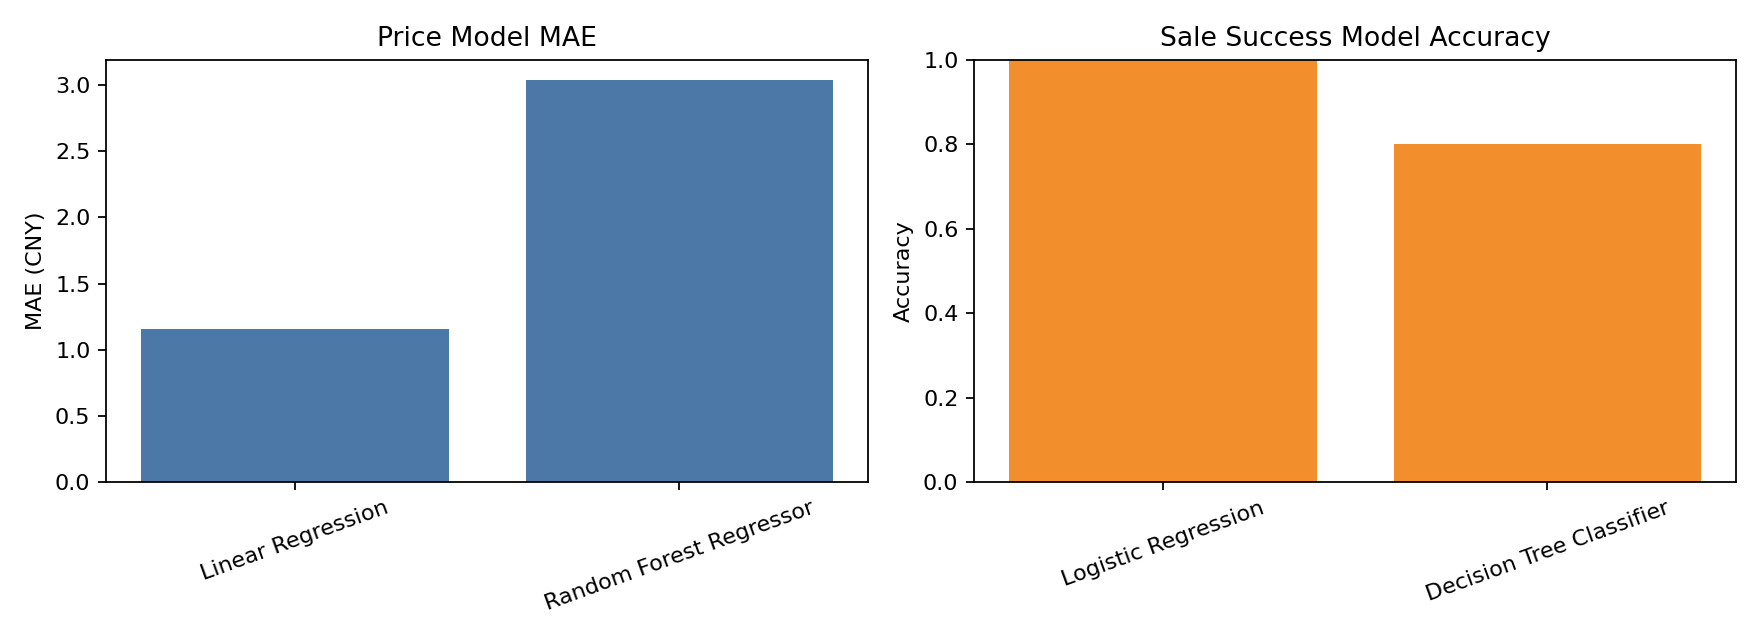
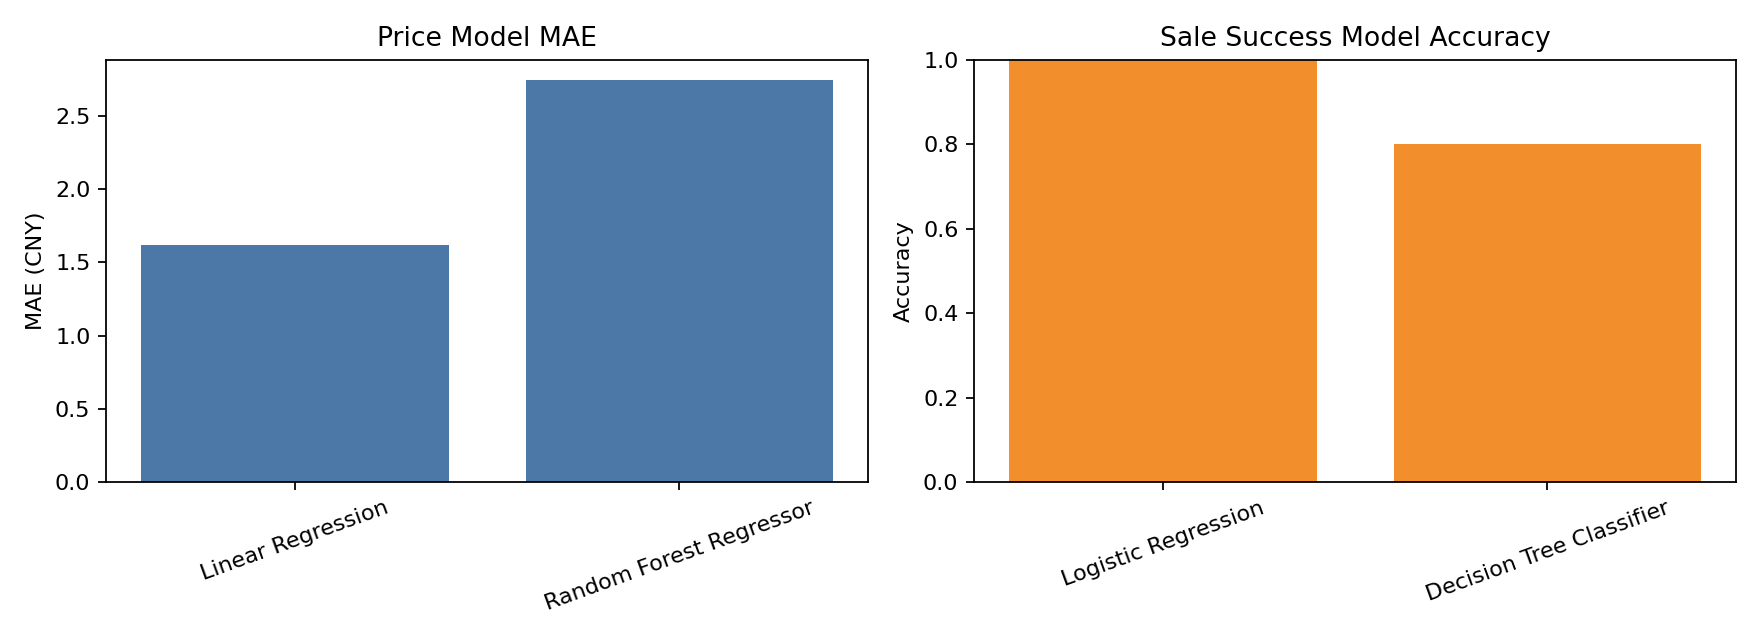
Remove post-sale feature from price model

diff --git a/src/model_utils.py b/src/model_utils.py
@@ -29,7 +29,7 @@ PRICE_FEATURES = [
     "estimated_unit_value_cny",
     "booth_area",
     "team",
-    "quantity_sold",
+    "quantity",
 ]
 
 SALE_SUCCESS_FEATURES = [
@@ -42,7 +42,7 @@ SALE_SUCCESS_FEATURES = [
 ]
 
 CATEGORICAL_FEATURES = ["item_category", "condition", "booth_area", "team"]
-PRICE_NUMERIC_FEATURES = ["estimated_unit_value_cny", "quantity_sold"]
+PRICE_NUMERIC_FEATURES = ["estimated_unit_value_cny", "quantity"]
 SALE_SUCCESS_NUMERIC_FEATURES = ["estimated_unit_value_cny", "quantity"]
 
 
@@ -214,11 +214,11 @@ def write_model_report(metrics):
         "- Estimated unit value",
         "- Booth area",
         "- Team",
-        "- Quantity or quantity sold, depending on the model",
+        "- Donated quantity",
         "",
         "## Price Prediction Regression Model",
         "",
-        "Goal: predict final item sale price using item category, condition, estimated value, booth area, team, and quantity sold.",
+        "Goal: predict final item sale price using item category, condition, estimated value, booth area, team, and donated quantity.",
         "",
         "| Model | MAE | RMSE | R2 score |",
         "| --- | ---: | ---: | ---: |",

diff --git a/tests/test_analysis.py b/tests/test_analysis.py
@@ -12,6 +12,7 @@ from analyze_donations import summarize_donations
 from analyze_inventory import summarize_inventory
 from analyze_sales import summarize_sales, summarize_team_contribution
 from clean_data import run_cleaning
+from model_utils import PRICE_FEATURES
 from utils import DATA_PROCESSED_DIR, filter_confirmed_donations
 
 
@@ -164,6 +165,12 @@ class AnalysisTest(unittest.TestCase):
             expected_total,
         )
         self.assertEqual(team_summary["team_rank"].min(), 1)
+
+    def test_price_model_uses_pre_sale_features(self):
+        self.assertIn("quantity", PRICE_FEATURES)
+        self.assertNotIn("quantity_sold", PRICE_FEATURES)
+        self.assertNotIn("total_sale_cny", PRICE_FEATURES)
+        self.assertNotIn("actual_sale_total_cny", PRICE_FEATURES)
 
 
 if __name__ == "__main__":

diff --git a/reports/model_report.md b/reports/model_report.md
@@ -11,16 +11,16 @@ This report summarizes two beginner-friendly machine learning experiments for th
 - Estimated unit value
 - Booth area
 - Team
-- Quantity or quantity sold, depending on the model
+- Donated quantity
 
 ## Price Prediction Regression Model
 
-Goal: predict final item sale price using item category, condition, estimated value, booth area, team, and quantity sold.
+Goal: predict final item sale price using item category, condition, estimated value, booth area, team, and donated quantity.
 
 | Model | MAE | RMSE | R2 score |
 | --- | ---: | ---: | ---: |
-| Linear Regression | 1.159 | 1.836 | 0.991 |
-| Random Forest Regressor | 3.039 | 4.778 | 0.936 |
+| Linear Regression | 1.622 | 2.128 | 0.987 |
+| Random Forest Regressor | 2.747 | 4.53 | 0.943 |
 
 ## Sale Success Classification Model
 

diff --git a/README.md b/README.md
@@ -118,7 +118,7 @@ The price prediction regression model predicts `final_unit_price_cny` using:
 - estimated unit value
 - booth area
 - team
-- quantity sold
+- donated quantity
 
 The sale success classification model predicts whether an item group is likely
 to sell using:
@@ -153,8 +153,8 @@ as part of event reflection.
 
 Current sample results:
 
-- Linear Regression price model: MAE 1.159, RMSE 1.836, R2 0.991
-- Random Forest price model: MAE 3.039, RMSE 4.778, R2 0.936
+- Linear Regression price model: MAE 1.622, RMSE 2.128, R2 0.987
+- Random Forest price model: MAE 2.747, RMSE 4.530, R2 0.943
 - Logistic Regression sale success model: accuracy 1.000, precision 1.000, recall 1.000
 - Decision Tree sale success model: accuracy 0.800, precision 1.000, recall 0.778
 